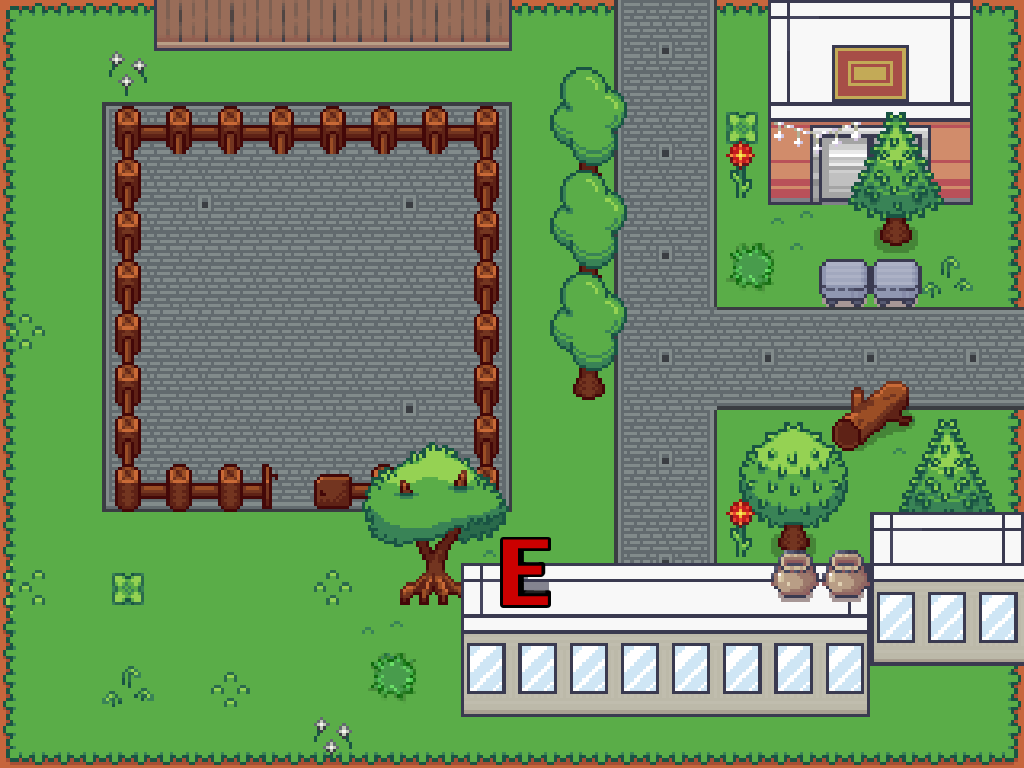
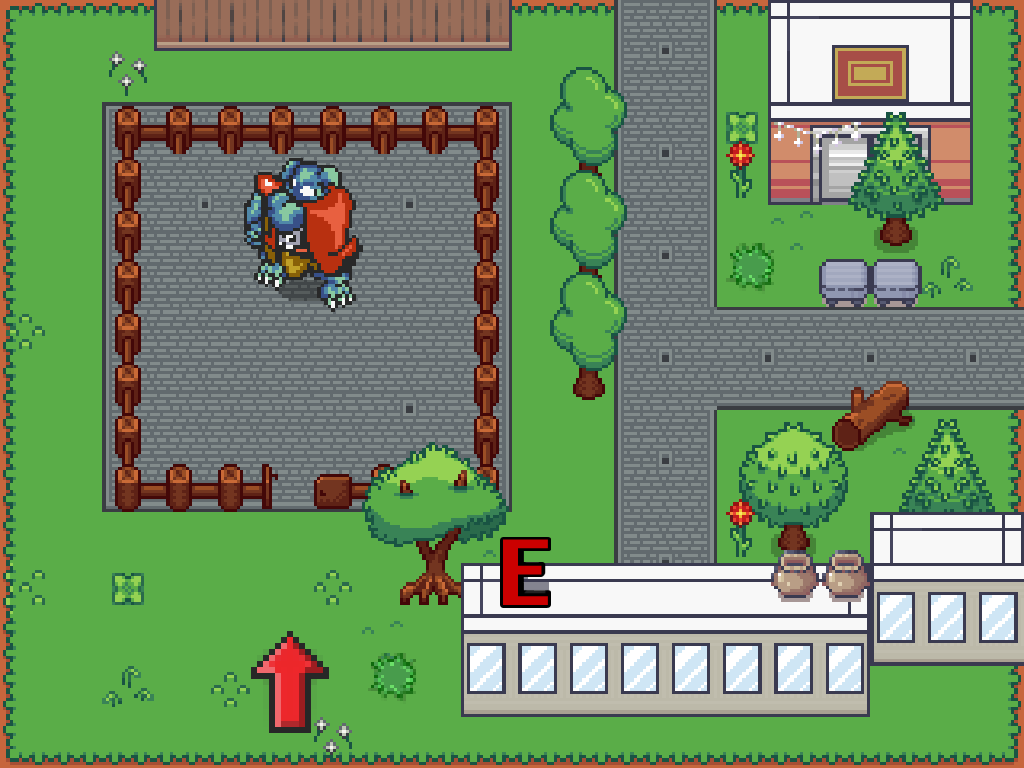
Boss ed arena

Changed region(s): [[0.2188, 0.1875, 0.375, 0.4062], [0.25, 0.8125, 0.3125, 0.9688]]

diff --git a/classi/enemy.js b/classi/enemy.js
@@ -87,13 +87,7 @@ class Enemy extends Sprite {
             }
         
         }
-        this.healthbar = {
-            x:(this.position.x+this.width/2)-25,
-            y:(this.position.y+7),
-            width:46,
-            green_width:((this.vita-this.initial_vita)/this.initial_vita)*46,
-            height:12
-        }
+       
         c.drawImage(this.cuori,this.healthbar.green_width,
         0,this.healthbar.width,this.healthbar.height, this.healthbar.x,
           this.healthbar.y, this.healthbar.width, this.healthbar.height)
@@ -105,40 +99,7 @@ class Enemy extends Sprite {
         //this.position.x += this.velocity.x
         //this.position.y += this.velocity.y
         //controllo collisioni orizzontali
-        
-        this.hitbox = {
-            position:{
-            x: this.position.x+this.offset_box.top,
-            y:this.position.y+this.offset_box.left
-        },
-        width: this.width-this.offset_box.right,
-        height: this.height-this.offset_box.down,}
-
-        for (let i = 0; i< this.blocchiCollisione.length; i++){
-            const collisionBlock = this.blocchiCollisione[i]
-
-
-            if(this.hitbox.position.x <= collisionBlock.position2.x &&
-                this.hitbox.position.x+ this.hitbox.width >= collisionBlock.position.x &&
-                this.hitbox.position.y + this.hitbox.height >= collisionBlock.position.y &&
-                this.hitbox.position.y <= collisionBlock.position2.y
-                ){
-                    //collisione sulle varie direzioni
-                console.log('COLLISIONE')
-                if(this.velocity.x <-0) {
-                    const offset = this.hitbox.position.x - this.position.x
-                    this.position.x = collisionBlock.position2.x-offset+1
-                    break}
-                if(this.velocity.x > 0) {
-                    const offset = this.hitbox.position.x - this.position.x + this.hitbox.width
-                    this.position.x = collisionBlock.position.x-offset-1
-                    
-                    break}
-                
-            }
-            
-            
-        }
+        //this.position.y+=this.velocity.y;
         this.hitbox = {
             position:{
             x: this.position.x+this.offset_box.left,
@@ -147,8 +108,8 @@ class Enemy extends Sprite {
         width: this.width-this.offset_box.right,
         height: this.height-this.offset_box.down,}
         //visualizzatore hitbox del personaggio, coincide con link per l'animazioni di base
-        c.fillStyle="rgba(164, 67, 67, 0.71)"
-         c.fillRect(this.hitbox.position.x,this.hitbox.position.y,this.hitbox.width,this.hitbox.height)
+        //c.fillStyle="rgba(164, 67, 67, 0.71)"
+         //c.fillRect(this.hitbox.position.x,this.hitbox.position.y,this.hitbox.width,this.hitbox.height)
         
         //check verticale
         for (let i = 0; i< this.blocchiCollisione.length; i++){
@@ -164,11 +125,12 @@ class Enemy extends Sprite {
                 console.log('COLLISIONE')
                 
                 if(this.velocity.y <0) {
+                    this.velocity.x =0;
                     const offset = this.hitbox.position.y - this.position.y
                     this.position.y = collisionBlock.position2.y- offset +1
                 break}
                 if(this.velocity.y > 0) {
-                    
+                    this.velocity.x =0;
                     const offset = this.hitbox.position.y - this.position.y + this.hitbox.height
                     this.position.y = collisionBlock.position.y- offset -1
                 break}
@@ -176,7 +138,43 @@ class Enemy extends Sprite {
             
             
         }
+        //this.position.x+=this.velocity.x
+        this.hitbox = {
+            position:{
+            x: this.position.x+this.offset_box.top,
+            y:this.position.y+this.offset_box.left
+        },
+        width: this.width-this.offset_box.right,
+        height: this.height-this.offset_box.down,}
         
+        for (let i = 0; i< this.blocchiCollisione.length; i++){
+            const collisionBlock = this.blocchiCollisione[i]
+
+
+            if(this.hitbox.position.x <= collisionBlock.position2.x &&
+                this.hitbox.position.x+ this.hitbox.width >= collisionBlock.position.x &&
+                this.hitbox.position.y + this.hitbox.height >= collisionBlock.position.y &&
+                this.hitbox.position.y <= collisionBlock.position2.y
+                ){
+                    //collisione sulle varie direzioni
+                console.log('COLLISIONE')
+                if(this.velocity.x <-0) {
+                    this.velocity.y =0;
+                    const offset = this.hitbox.position.x - this.position.x
+                    this.position.x = collisionBlock.position2.x-offset+1
+                    
+                    break}
+                if(this.velocity.x > 0) {
+                    this.velocity.y =0;
+                    const offset = this.hitbox.position.x - this.position.x + this.hitbox.width
+                    this.position.x = collisionBlock.position.x-offset-1
+                    
+                    break}
+                
+            }
+            
+            
+        }
         //c.fillStyle = 'yellow'
         //c.fillRect(this.attack_box.x,this.attack_box.y,this.attack_box.width,this.attack_box.height)
        
@@ -278,6 +276,13 @@ class Enemy extends Sprite {
             }
             this.position.y += this.velocity.x
             this.position.y += this.velocity.y;
+            this.healthbar = {
+                x:(this.position.x+this.width/2)-25,
+                y:(this.position.y+7),
+                width:46,
+                green_width:((this.vita-this.initial_vita)/this.initial_vita)*46,
+                height:12
+            }
             super.update(); // Mantiene il comportamento base
         }
     }
@@ -359,9 +364,7 @@ class Enemy extends Sprite {
             width: this.width-this.offset_box.right,
             height: this.height-this.offset_box.down,}
             // Applica il movimento controllando le collisioni
-            this.position.x += this.velocity.x;
             
-            this.position.y += this.velocity.y;
     
             // Controllo collisioni con i blocchi della stanza
             this.blocchiCollisione.forEach(block => {
@@ -381,7 +384,15 @@ class Enemy extends Sprite {
             if (distance < 40) {
                 player.subisciDanno();
             }
-    
+            this.healthbar = {
+                x:(this.position.x+this.width/2)-25,
+                y:(this.position.y+7),
+                width:46,
+                green_width:((this.vita-this.initial_vita)/this.initial_vita)*46,
+                height:12
+            }
+            this.position.x += this.velocity.x
+            this.position.y += this.velocity.y
             super.update();
         }
     }
@@ -473,7 +484,13 @@ class Enemy extends Sprite {
                     this.projectiles.splice(index, 1);
                 }
             });
-    
+            this.healthbar = {
+                x:(this.position.x+this.width/2)-25,
+                y:(this.position.y+7),
+                width:46,
+                green_width:((this.vita-this.initial_vita)/this.initial_vita)*46,
+                height:12
+            }
             super.update();
         }
     

diff --git a/classi/BlocchiCollisione.js b/classi/BlocchiCollisione.js
@@ -419,7 +419,7 @@ class BlocchiCollisione {
             this.blocchiCollisione.push(blocco03)
             
         break
-        case 5:
+        case 4:
             const lato_alto4 = new Collisione({
                 position :{
                 x: 0,
@@ -530,7 +530,85 @@ class BlocchiCollisione {
             },
             })
             this.blocchiCollisione.push(blocco46)
-            
+            const blocco47 = new Collisione({
+                position :{
+                x: 120,
+                y:109
+            },
+            position2 :{
+                x: 493,
+                y:487
+            },
+            })
+            this.blocchiCollisione.push(blocco47)
+            const blocco48 = new Collisione({
+                position :{
+                x: 464,
+                y:565
+            },
+            position2 :{
+                x: 866,
+                y:700
+            },
+            })
+            this.blocchiCollisione.push(blocco48)
+            const blocco49 = new Collisione({
+                position :{
+                x: 154,
+                y:0
+            },
+            position2 :{
+                x: 509,
+                y:29
+            },
+            })
+            this.blocchiCollisione.push(blocco49)
+            break
+            case 5:
+            const lato_alto5 = new Collisione({
+                position :{
+                x: 0,
+                y:0
+            },
+            position2 :{
+                x: 1024,
+                y:40
+            },
+            })
+            this.blocchiCollisione.push(lato_alto5)
+            const lato_destro5 = new Collisione({
+                position :{
+                x: 984,
+                y:0
+            },
+            position2 :{
+                x: 1024,
+                y:767
+            },
+            })
+            this.blocchiCollisione.push(lato_destro5)
+            const lato_sinistro5 = new Collisione({
+                position :{
+                x: 0,
+                y:0
+            },
+            position2 :{
+                x: 40,
+                y:767
+            },
+            })
+            this.blocchiCollisione.push(lato_sinistro5)
+            const lato_sotto5 = new Collisione({
+                position :{
+                x: 0,
+                y:728
+            },
+            position2 :{
+                x: 1024,
+                y:768
+            },
+            })
+            this.blocchiCollisione.push(lato_sotto5)
             break
     }
         }

diff --git a/index.js b/index.js
@@ -79,7 +79,7 @@ let eliminatedEnemies = new Set();
 
 //level è la variabile che se cambiata cambia la stanza corrente, andrà implementata la collisione della porta nell'index, poi vi mando un
 //video con il minutaggio
-let level = 1;
+let level = 5;
 let levels = {
     1: {
         init: () => {
@@ -203,9 +203,32 @@ let levels = {
     },
     4: {
         init: () => {
+            player.position.x=620
+            player.position.y=465
+            blockclass = new BlocchiCollisione(4);
+            player.blocchiCollisione = blockclass.blocchiCollisione;
+            console.log('Blocchi di collisione caricati:', player.blocchiCollisione.length);
+
+            //enemy_group = new Enemy_Group(4);
+            // aggiungere nemici che inseguono
+            
+            //console.log('Nemici caricati:', enemy_group);
+
+            // Assegna i blocchi di collisione anche ai nemici
+            //player.enemies = enemy_group.enemies;
+            //enemy_group.blocchiCollisione = blockclass.blocchiCollisione;
+
+            // Carica l'immagine di sfondo della stanza
+            background_stanza.image.src = './immagini/stanze/mapfuori.png';
+
+           
+        }
+    },
+    5: {
+        init: () => {
             player.position.x=618
             player.position.y=30
-            blockclass = new BlocchiCollisione(4);
+            blockclass = new BlocchiCollisione(5);
             player.blocchiCollisione = blockclass.blocchiCollisione;
             console.log('Blocchi di collisione caricati:', player.blocchiCollisione.length);
 
@@ -219,7 +242,7 @@ let levels = {
             enemy_group.blocchiCollisione = blockclass.blocchiCollisione;
 
             // Carica l'immagine di sfondo della stanza
-            background_stanza.image.src = './immagini/stanze/mapfuori.png';
+            background_stanza.image.src = './immagini/stanze/mapboss.png';
 
            
         }

diff --git a/classi/BossGanon.js b/classi/BossGanon.js
@@ -82,6 +82,13 @@ class BossGanon extends Enemy {
         this.offset_box.left=50;
         this.offset_box.right=110;
         this.offset_box.down=120
+        const image_cuori = new Image()
+                image_cuori.src = './immagini/ganon_healt.png'
+                this.cuori = image_cuori
+                const image_cont = new Image()
+                image_cont.src = './immagini/ganon_container.png'
+                this.container = image_cont
+        
     }
 
     cambiaFase() {
@@ -235,8 +242,18 @@ class BossGanon extends Enemy {
         }
     }
     this.position.x += this.velocity.x
-        this.position.y += this.velocity.y
+            this.position.y += this.velocity.y
+            this.healthbar = {
+                x:320+((this.vita-this.initial_vita)/this.initial_vita)*this.cuori.width,
+                y:650,
+                width:this.cuori.width,
+                green_width:((this.vita-this.initial_vita)/this.initial_vita)*this.cuori.width,
+                height:this.cuori.height
+            }
+            
+            c.drawImage(this.container,320,650)
         super.update();
+        
     }
 
     draw() {

diff --git a/classi/Player.js b/classi/Player.js
@@ -233,8 +233,8 @@ class Player extends Sprite {
             }
         }
         
-        c.fillStyle = 'yellow'
-        c.fillRect(this.attack_box.x,this.attack_box.y,this.attack_box.width,this.attack_box.height)
+        //c.fillStyle = 'yellow'
+        //c.fillRect(this.attack_box.x,this.attack_box.y,this.attack_box.width,this.attack_box.height)
        
     if(this.other_sides.bottom + this.velocity.y < canvas.height){
          this.other_sides.bottom=this.position.y+this.height

diff --git a/game.php b/game.php
@@ -23,7 +23,7 @@ $current_skin=$_SESSION['current_skin'];
             border-style: ridge;
     border-color: #ad794a;
     border-width: 20px;
-    border: none;
+    
     box-shadow: 8px 8px rgb(0, 0, 0);
         }
         button{
